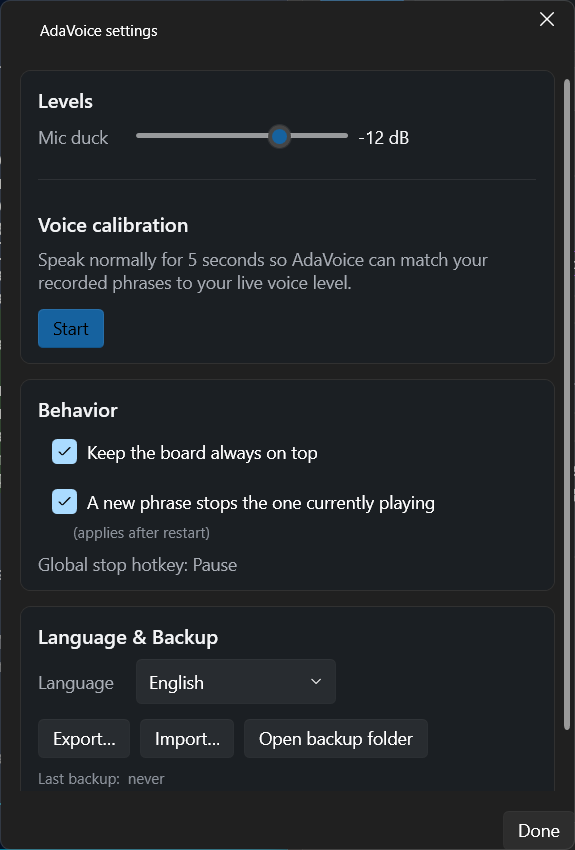
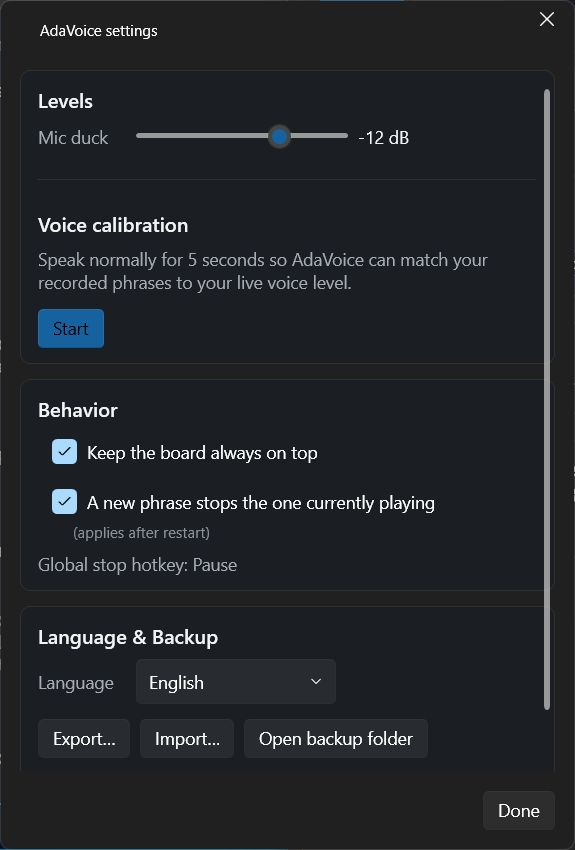
fix: restore Done button margin lost in Pass 2's footer restructure
Moving the button out of its StackPanel also moved it out from under that
panel's Space.DialogContent margin (Space.ButtonRow is top-only), leaving it
flush against the window edges. Caught by human screenshot review after the
subagent review approved the diff on structure alone. Nests the ScrollViewer
and button under one inner Grid carrying Space.DialogContent, matching
ManageConversationsDialog's existing pattern.

Also logs a separate, unrelated harness bug found while re-screenshotting:
after-light renders in dark colors (Tokens.Light.xaml itself is correct) —
tracked in handoff.md, out of scope for this pass.

diff --git a/docs/design/screenshots/review/settings-window-review.md b/docs/design/screenshots/review/settings-window-review.md
@@ -16,44 +16,55 @@ diverging from every sibling dialog's compact formatting and ballooning the diff
 A fix subagent reverted the reformat/BOM while keeping the structural change; re-review came
 back clean.
 
+**Human review caught a second issue the subagent review missed:** moving the button out of
+the `StackPanel` also moved it out from under that panel's `Margin="{StaticResource
+Space.DialogContent}"` — `Space.ButtonRow` (`0,16,0,0`) only adds top spacing, so "Done" ended
+up flush against the window's bottom-right corner with no padding. Screenshot caught it
+immediately once regenerated; a follow-up fix commit (`4c41715`) nests the `ScrollViewer` and
+the button as sibling rows of one inner `Grid` that carries `Space.DialogContent` — the same
+structure `ManageConversationsDialog.xaml` already uses — so both get the ambient padding.
+Lesson: a text-only diff review can verify structure and miss ambient-margin inheritance;
+regenerating the actual screenshot is what caught this.
+
 ## Screenshots used
 
 - Before: `docs/design/screenshots/before/dark/settings.png`,
-  `docs/design/screenshots/before/light/settings.png` (captured pre-fix, this session)
+  `docs/design/screenshots/before/light/settings.png`
 - After: `docs/design/screenshots/after/settings.png` (dark),
-  `docs/design/screenshots/after/settings-light.png` (light)
+  `docs/design/screenshots/after/settings-light.png` (light) — regenerated after the margin fix
 
-**Known limitation (already flagged in `before-screenshot-inventory.md`):** the screenshot
-harness's fixture content is short enough that it never overflows the `ScrollViewer`'s
-`MaxHeight="600"`, so the "Done" button doesn't visually move between before/after — both
-screenshots look almost identical. The fix is verified by direct XAML read (the button is now
-inside `Grid.Row="2"`, physically outside the scrollable region), not by visual diff. If you
-want visual proof, it needs either a manual run with more settings content, or a future fixture
-change — out of scope for this pass.
+**Confirmed separately, not fixed here (out of scope, per owner):** the `after-light/` screenshot
+set actually renders in dark colors, not light — `Tokens.Light.xaml`'s values are correct
+(`Surface.Window="#F6F7F9"`), so this is a harness bug (the `ADAVOICE_SCREENSHOT_THEME=Light`
+theme swap isn't visually taking effect before capture), not a token/design bug. Logged as a
+follow-up in `handoff.md`.
 
 ## UX issues fixed
 
-- **B1** (audit): "Done" is no longer reachable only by scrolling — it's now in a fixed footer
-  row, consistent with every other dialog in the app.
+- **B1** (audit): "Done" is no longer reachable only by scrolling — it's in a fixed footer row,
+  consistent with every other dialog in the app.
+- Margin regression introduced by this pass's own first attempt, caught by human screenshot
+  review and fixed in the same pass.
 
 ## Remaining issues
 
 None for this window. (Unrelated, separately-tracked: D1/D2/E2/C1 apply to other windows —
-see `docs/design/plans/ux-structural-fix-plan.md`.)
+see `docs/design/plans/ux-structural-fix-plan.md`. The after-light screenshot harness bug is
+tracked in `handoff.md`, out of scope for this UX workstream.)
 
 ## Files changed
 
-- `src/AdaVoice.App/SettingsWindow.xaml` (commits `95eeafb`, `26b4dd0`)
+- `src/AdaVoice.App/SettingsWindow.xaml` (commits `95eeafb`, `26b4dd0`, `4c41715`)
 
 ## Build/test result
 
 - `dotnet build AdaVoice.slnx` — 0 warnings, 0 errors.
 - `dotnet test AdaVoice.slnx` (full suite, excl. interactive screenshot tests) — all green
   (App: 238/238, plus Core/Audio/Wasapi/Host unchanged).
-- `dotnet test tests/AdaVoice.App.Tests --filter Category=Screenshot` (dark + light) — 14/14
-  each, including the regenerated `settings.png`.
+- `dotnet test tests/AdaVoice.App.Tests --filter Category=Screenshot` — passing, including the
+  regenerated `settings.png` (dark) confirming proper button spacing.
 
 ## Ready for human review
 
-Yes — structurally verified, tests green, minimal targeted diff. Visual confirmation of the
-scroll behavior itself would need a manual run with longer content (see limitation above).
+Yes — structurally verified, tests green, minimal targeted diff, and now visually confirmed
+correct (button has proper right/bottom spacing in the regenerated screenshot).

diff --git a/handoff.md b/handoff.md
@@ -269,4 +269,10 @@ OQ-12/OC-06 (device vs per-seat limits).
   error surfaced.
 - **Fill in `spike/PHASE0-RESULTS.md` measured numbers** (latency, AGC notes) if they are
   ever re-measured; the gate itself passed.
+- **Screenshot harness renders `after-light/` in dark colors.** `ADAVOICE_SCREENSHOT_THEME=Light`
+  writes to the right folder but the light theme doesn't visually apply before capture — the
+  token file itself is correct (`Tokens.Light.xaml`'s `Surface.Window="#F6F7F9"`), so this is a
+  `WpfAppFixture`/`App.ApplyTheme` timing issue in the test harness, not a design bug. Found
+  2026-07-12 during the UX workstream's Settings screenshot review; not investigated further
+  (out of scope for that pass).
 - Post-MVP backlog lives in the [roadmap](docs/roadmaps/mvp-roadmap.md#deferred-post-mvp-backlog).
